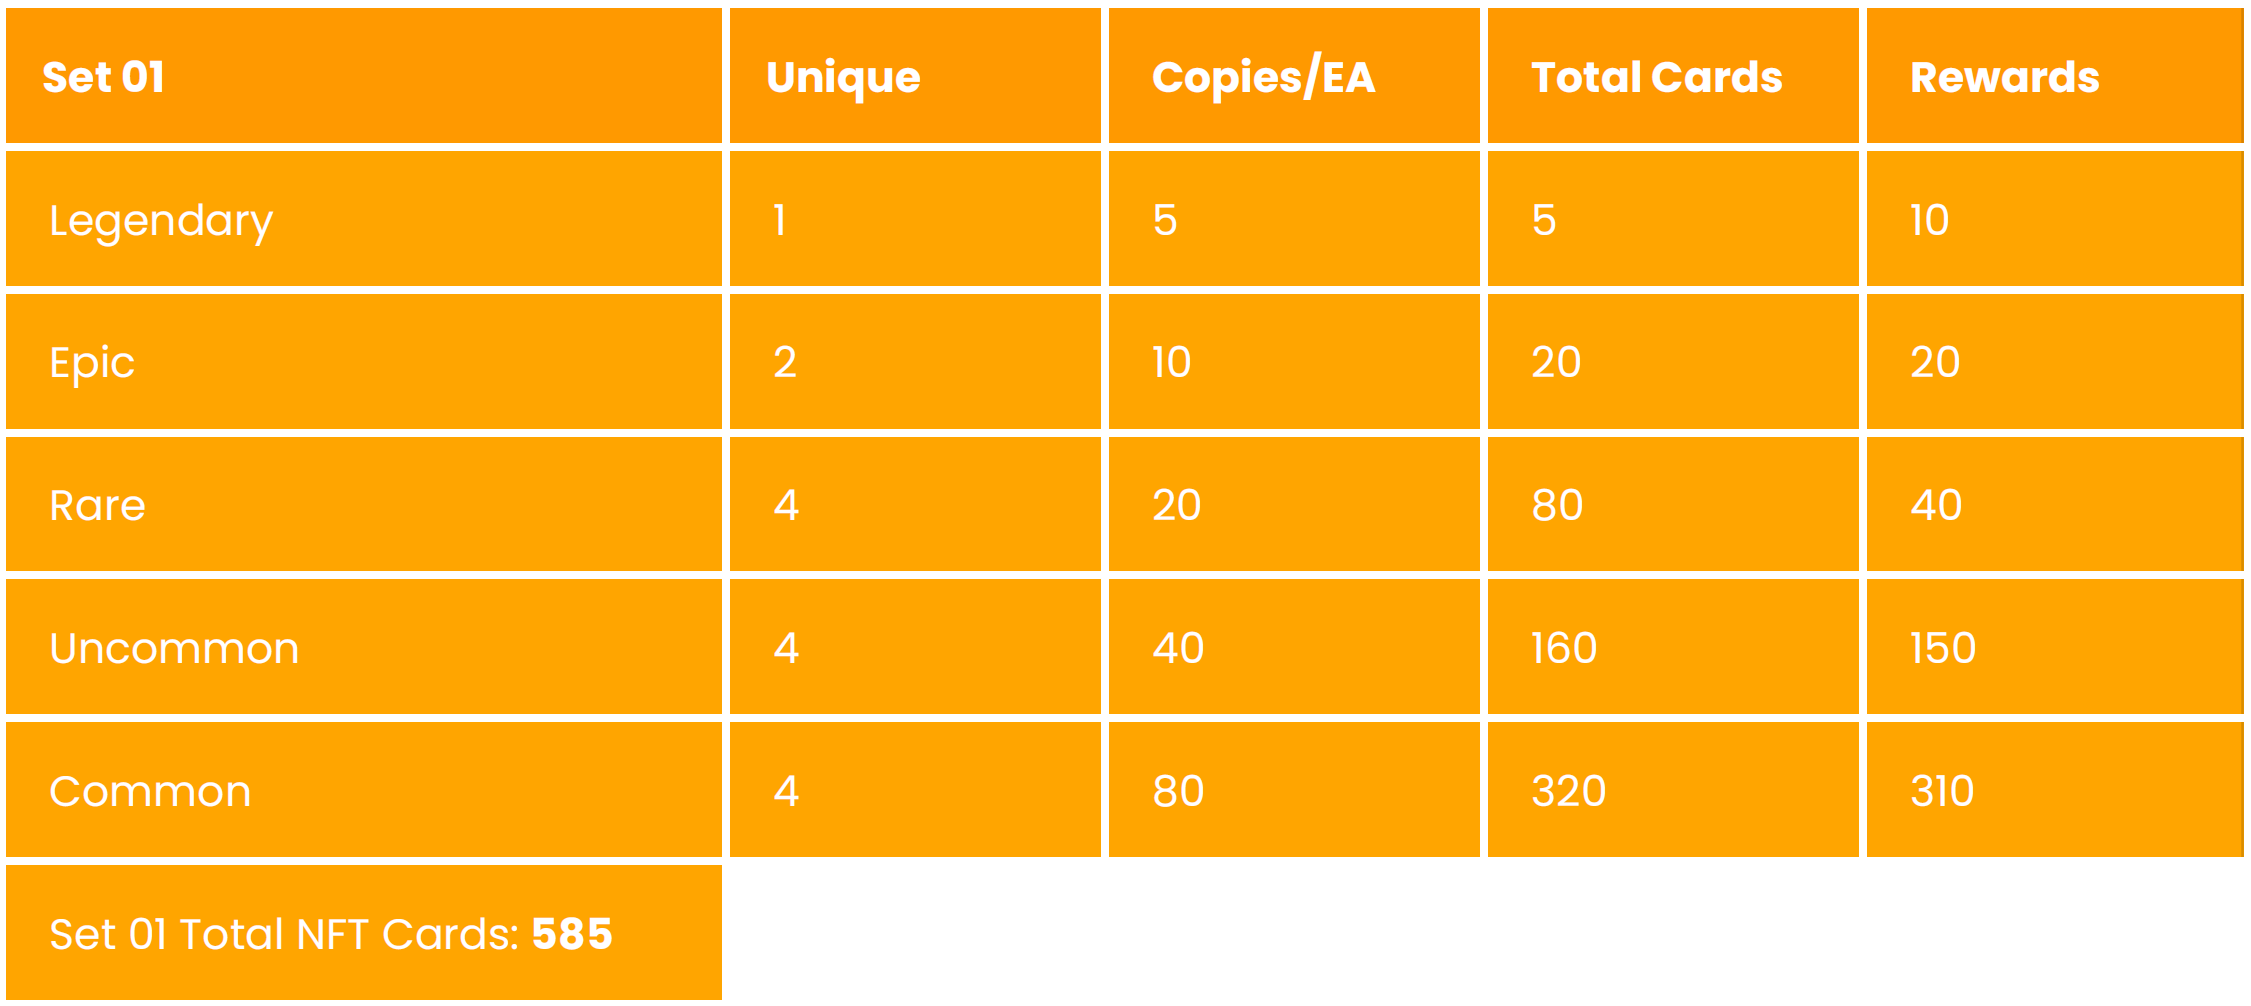
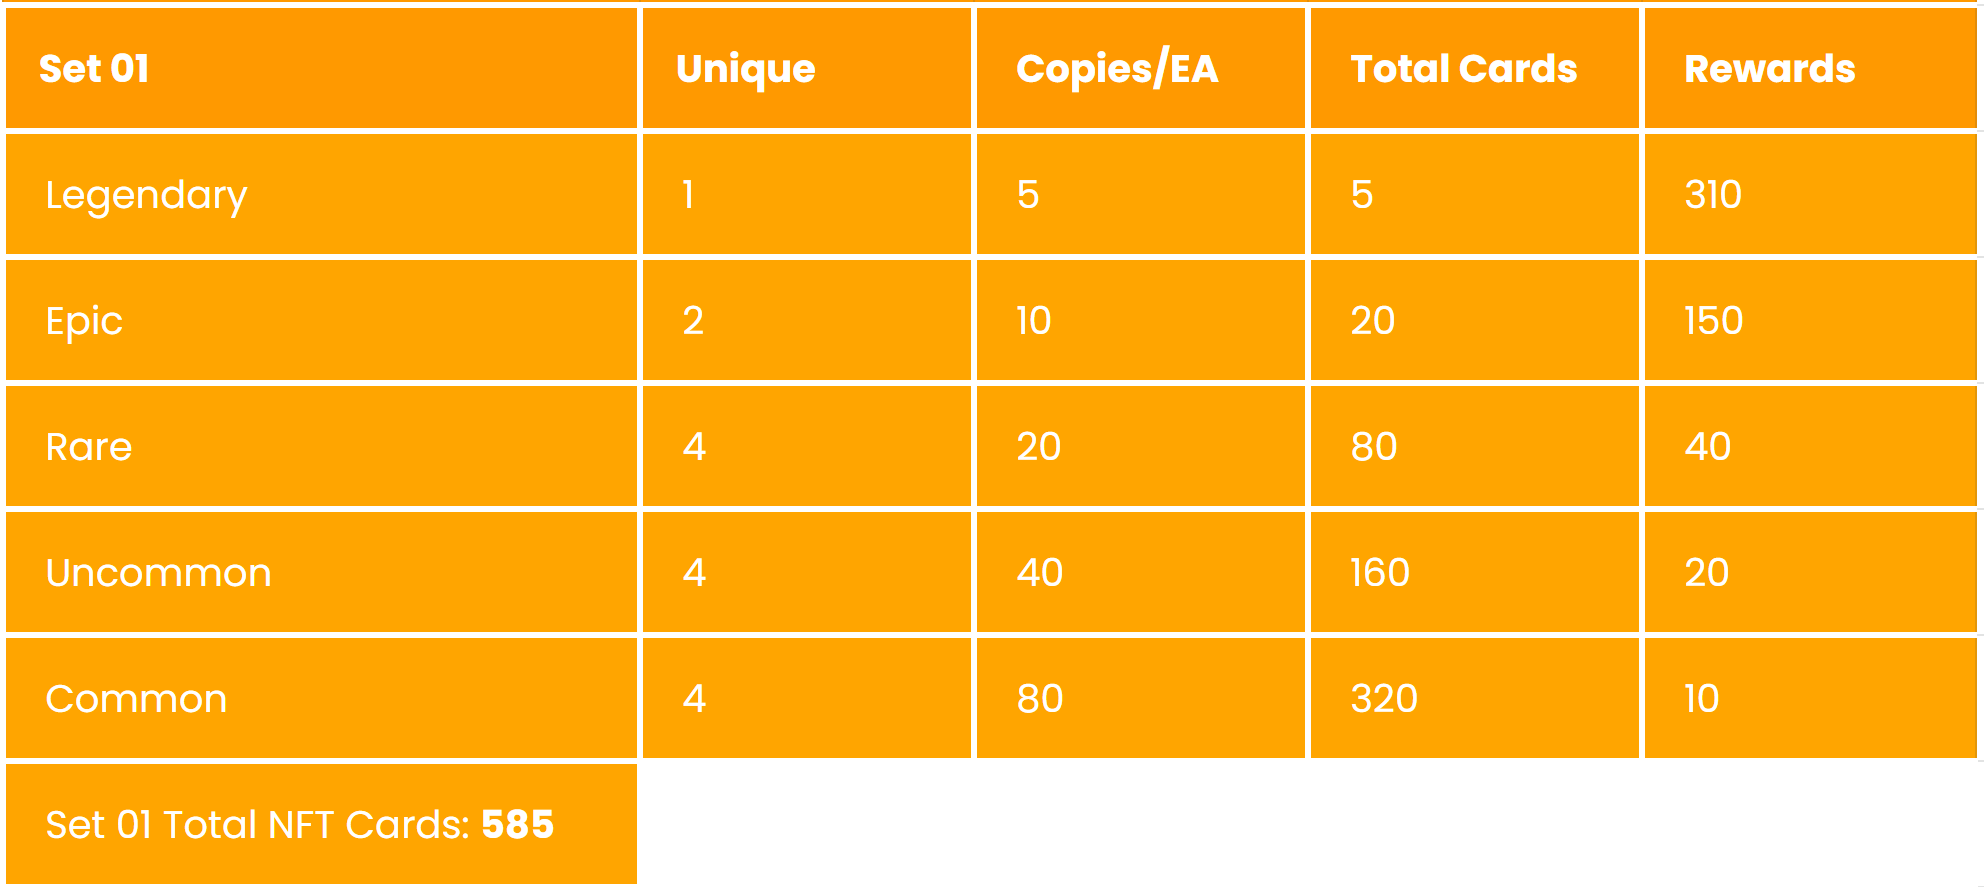
updated rewards tables

diff --git a/src/views/StoreView.vue b/src/views/StoreView.vue
@@ -51,6 +51,7 @@ h1 {
 <script>
 import { reactive } from 'vue'
 import StoreCard from '../components/StoreCard.vue'
+import algosdk from 'algosdk'
 const storeItems = {
   490139078: 'Zip',
   490146814: 'Lika',
@@ -66,16 +67,14 @@ const addresses = [
 
 export default {
   setup () {
-    const token = ''
-    const server = 'https://algoindexer.algoexplorerapi.io'
+    const token = { 'X-API-key': 'sxwIKIENYg9Es5rsmoanF5WAYXBBHDQ70vGvhI4g' }
+    const server = 'https://mainnet-algorand.api.purestake.io/ps2'
     const port = ''
-    // eslint-disable-next-line no-undef
     const client = new algosdk.Algodv2(token, server, port)
     const sellingAssets = reactive({})
     for (const index in addresses) {
       client.accountInformation(addresses[index]).do().then(response => {
-        console.log(response.account.assets)
-        for (const a of response.account.assets) {
+        for (const a of response.assets) {
           for (const b in storeItems) {
             // eslint-disable-next-line eqeqeq
             if (a['asset-id'] == b) {

diff --git a/vue.config.js b/vue.config.js
@@ -1,16 +1,10 @@
-import { defineConfig } from '@vue/cli-service'
-import NodePolyfillPlugin from 'node-polyfill-webpack-plugin'
-export default defineConfig({
+const { defineConfig } = require('@vue/cli-service')
+const NodePolyfillPlugin = require('node-polyfill-webpack-plugin')
+module.exports = defineConfig({
   runtimeCompiler: true,
   transpileDependencies: true,
   configureWebpack: {
     plugins: [new NodePolyfillPlugin()],
-    devServer: {
-      proxy: 'https://alchemon.net',
-      headers: {
-        'Access-Control-Allow-Origin': '*'
-      }
-    },
     optimization: {
       splitChunks: {
         chunks: 'all'
